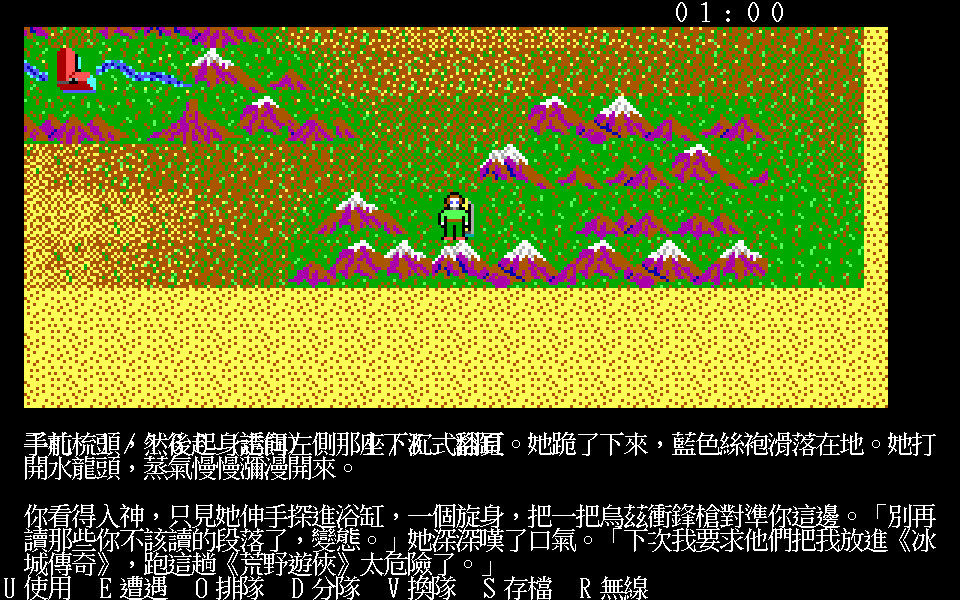
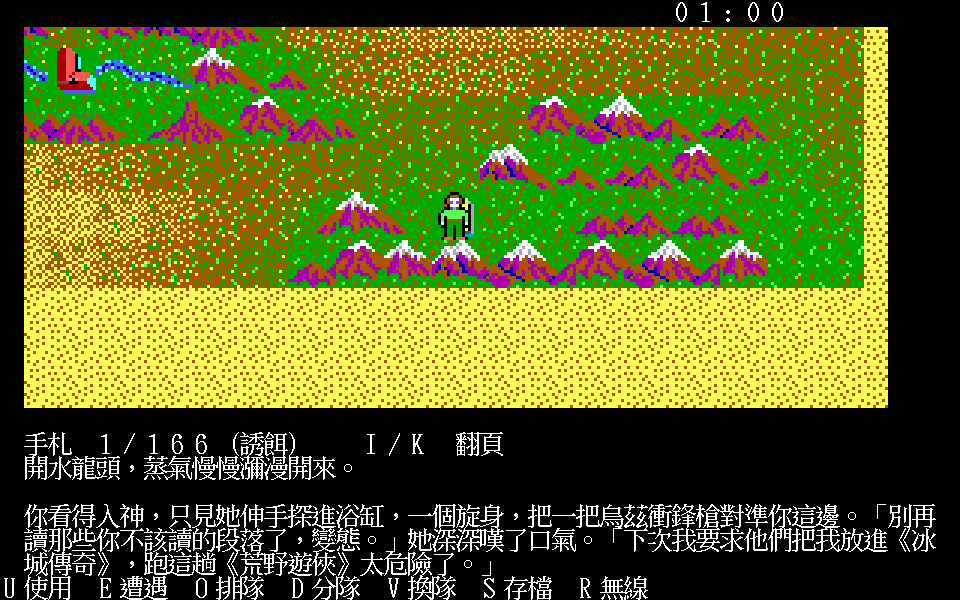
捲動的上緣是起始列，不是區域第一列——手札標題被正文蓋掉了
重跑 README 截圖時看出來的：02-journal 的標題「手札 1／166（誘餌） I／K 翻頁」
與正文疊在同一列。成因是 eachMessageCell 用 rect.Row 當上緣，
而呼叫端為了讓出標題會把起點推到 rect.Row+1；正文一捲動就蓋上去。

⚠ 兩行疊在一起還是看得到字，所以截圖看起來像「那一行很擠」，不像壞掉——
沒有任何測試會紅。TestScrollDoesNotOverwriteTheHeaderRow 直接檢查
沒有一格落在標題那一列（拿掉修正驗過會紅）。

02-journal.png 一併重跑。

Changed region(s): [[0.1562, 0.72, 0.9688, 0.78], [0.0312, 0.72, 0.125, 0.75]]

diff --git a/internal/play/scroll_test.go b/internal/play/scroll_test.go
@@ -143,3 +143,30 @@ func TestSecondMemberSeesTheWholeMenu(t *testing.T) {
 	}
 	_ = render.PanelHeight
 }
+
+// 捲動的上緣是**傳進來的起始列**，不是區域的第一列。
+//
+// ⚠ 手札與訊息視窗會把正文往下推一行讓出標題。上緣算錯的話，正文捲上去
+// 會疊在標題上——而**兩行疊在一起還是看得到字**，截圖看起來像「那一行很擠」，
+// 不像壞掉。這一條直接檢查沒有任何一格落在標題那一列。
+func TestScrollDoesNotOverwriteTheHeaderRow(t *testing.T) {
+	rect := textRect{Col: 15, Row: 1, Width: 24, Height: 4}
+	start := rect.Row + 1 // 第 1 列是標題
+	text := []byte("one\rtwo\rthree\rfour\rfive\rsix")
+	rows := map[int]string{}
+	eachMessageCell(text, rect, start, func(col, row int, a, hi, lo byte) {
+		if a != 0 {
+			rows[row] += string(rune(a))
+		}
+	})
+	if _, ok := rows[rect.Row]; ok {
+		t.Errorf("正文畫到標題那一列了：%q（全部：%v）", rows[rect.Row], rows)
+	}
+	// 讓出一行之後只剩三列，所以看得到的是最後三行。
+	want := map[int]string{2: "four", 3: "five", 4: "six"}
+	for row, w := range want {
+		if rows[row] != w {
+			t.Errorf("列 %d 得到 %q，預期 %q（全部：%v）", row, rows[row], w, rows)
+		}
+	}
+}

diff --git a/internal/play/play.go b/internal/play/play.go
@@ -379,6 +379,11 @@ func (s *Scene) msgRect() textRect {
 // 要到戰鬥指令階段問第二個人才分得出來——那時第三、四個人的選單整段不見。
 func eachMessageCell(text []byte, rect textRect, row int,
 	f func(col, row int, ascii, hi, lo byte)) {
+	// ⚠ **上緣是傳進來的起始列，不是區域的第一列。** 呼叫端會把起點往下推一行
+	// 讓出標題（手札的「手札 1／166」、英文訊息那一行）；用 `rect.Row` 當上緣的話，
+	// 捲動之後的正文會蓋在標題上，而**兩行疊在一起還是看得到字**——
+	// 畫面不像壞掉，像那一行字很擠（`docs/re/109` 那一輪從截圖抓到的）。
+	top := row
 	// 先量最後一格落在哪一列，超出下緣就整段往上挪。
 	last := row
 	walkMessage(text, rect, row, func(_, r int, _, _, _ byte) { last = r })
@@ -386,7 +391,7 @@ func eachMessageCell(text []byte, rect textRect, row int,
 		row -= over
 	}
 	walkMessage(text, rect, row, func(col, r int, a, hi, lo byte) {
-		if r < rect.Row {
+		if r < top {
 			return // 已經捲出上緣的行
 		}
 		f(col, r, a, hi, lo)
